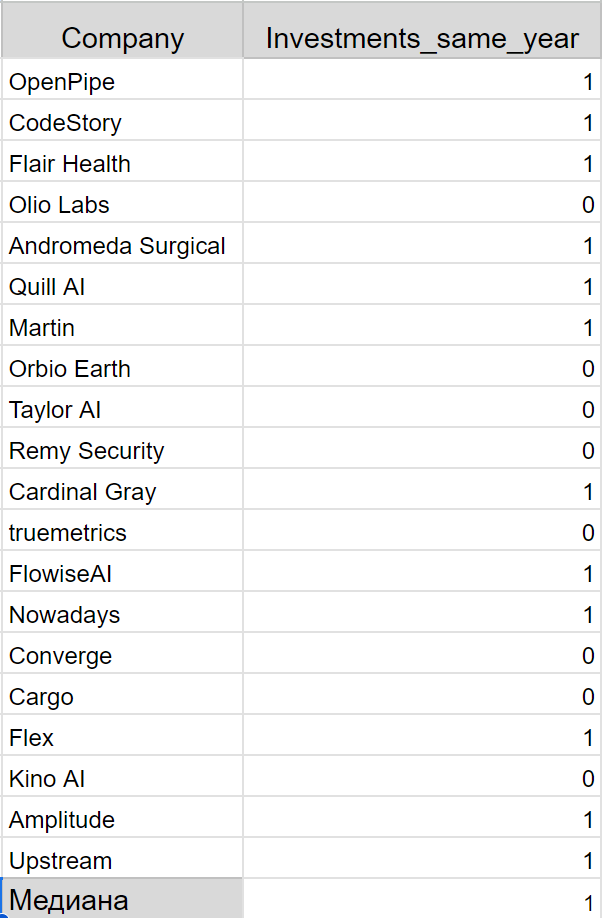
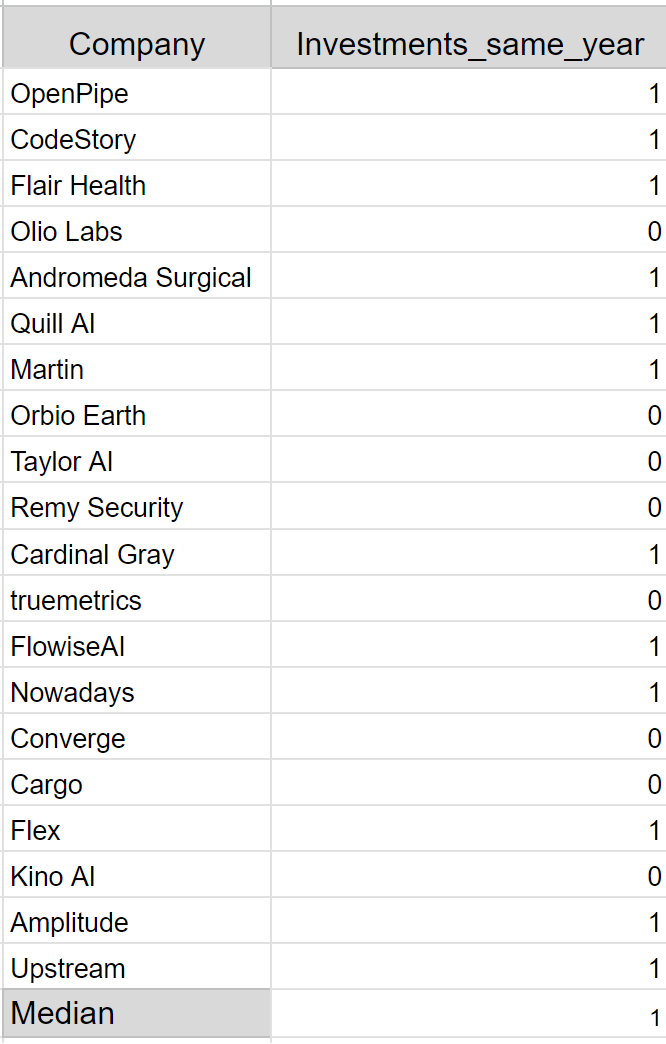
Cosmetic fixes

Changed region(s): [[0.0, 0.0, 1.0, 1.0]]

diff --git a/Savchuk/README.md b/Savchuk/README.md
@@ -2,24 +2,25 @@
 
 ## The purpose of the investigation
 
-Find out how many tries it takes to release from <code>Y Combinator</code> and stay active if we count it as a success.
+Find out how many tries it takes to release from <code>Y Combinator</code> and how much income company should gain to stay active if we count it as a success.
 
 ## Goals
 
 <ul> 
-<li> Gather data about how many times fouders came out from <code>Y Combinator</code>
-<li> Find out, how many projects have investors, if possible
-<li> Is it is possible, try to find out for how many of other startups for each founder no investors were found
-<li> Count averages for gathered data
+<li> Gather data about how many times fouders came out from <code>Y Combinator</code>;
+<li> Find out, how many projects have investors, if possible;
+<li> Is it is possible, try to find out for how many of other startups for each founder no investors were found;
+<li> Count averages for gathered data;
+<li> Investigate yc_csv.csv to gain information amout incomes.
 </ul>
 
 ## Gathering
 
-Gathering occurs in google таблицах on page <code>AnnaSavchuk</code>
+Gathering occurs in Google sheets on page <code>Founders_investigation</code>
 
-## Результаты
+## Results
 
-![db](./assets/YC_Data_2023_AnnaSavchuk.jpg)
+See full details in [URL](https://docs.google.com/spreadsheets/d/1wmtEYf6a_V7i79vYZ5c-faVzt99KR0LTRxeHdqiFIN0/edit#gid=1695031305).
 
 It was collected data for 18 projects from <code>Y Combinator</code> from 2012 til 2023, that were not highly valued. According to results, 12 startups got investments on the year of foundation. Also every founder on average once graduated from YC with 2 as got maximum and all of them have at least one active project.
 
@@ -31,7 +32,7 @@ Thus, we can conclude that to launch a successful but small startup, on average,
 
 ## Notes
 
-The research results can be viewed in more detail in the pdf file <code>YC Data 2023 - AnnaSavchuk</code> in the <code>assets</code> folder or in Google sheets on the sheet <code>AnnaSavchuk</code>.
+The research results can be viewed in more detail on Google sheets on the sheet <code>Founders_investigation</code>.
 
 ## Analysis of a csv-table of large projects from YC
 

diff --git a/Savchuk/README_Rus.md b/Savchuk/README_Rus.md
@@ -13,11 +13,11 @@
 
 ## Сбор данных
 
-Сбор данных происходит в google таблицах на листе <code>AnnaSavchuk</code>
+Сбор данных происходит в Google таблицах на листе <code>Founders_investigation</code>
 
 ## Результаты
 
-![db](./assets/YC_Data_2023_AnnaSavchuk.jpg)
+Детали можно увидеть по ссылке [на таблицу](https://docs.google.com/spreadsheets/d/1wmtEYf6a_V7i79vYZ5c-faVzt99KR0LTRxeHdqiFIN0/edit#gid=1695031305).
 
 Были собраны некоторые данные по 18ти проектам, невысоко оценённых по деньгам, выпущенным из <code>Y Combinator</code> с 2012 по 2023 год. Из сделанных вычислений было получено, что 12 стартапов получили инвестиции в год основания. Также в среднем каждый основатель выпустился из <code>Y Combinator</code> 1 раз и после выпуска на текущий из них имеет 1 активный проект.
 
@@ -31,7 +31,7 @@
 
 ## Замечания
 
-Более подробно результаты исследования можно рассмотреть в pdf-файле <code>YC Data 2023 - AnnaSavchuk</code> в папке <code>assets</code> или в google таблицах на листе <code>AnnaSavchuk</code>.
+Более подробно результаты исследования можно рассмотреть в Google таблицах на листе <code>Founders_investigation</code>.
 
 ## Анализ csv-таблицы крупных проектов из YC
 
